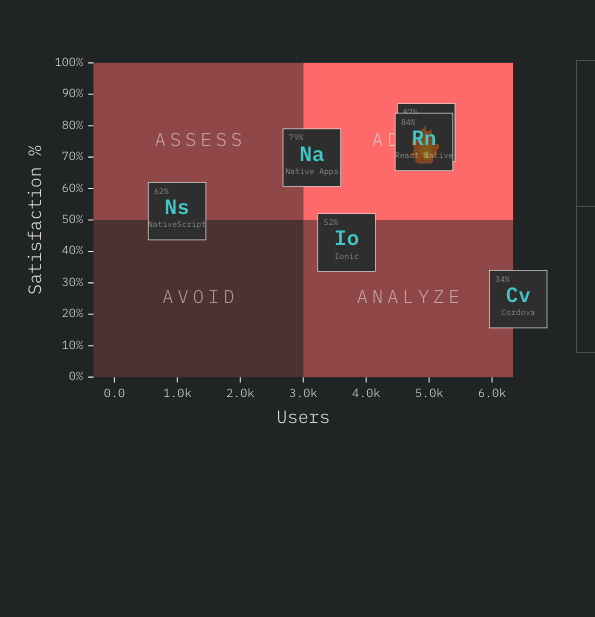
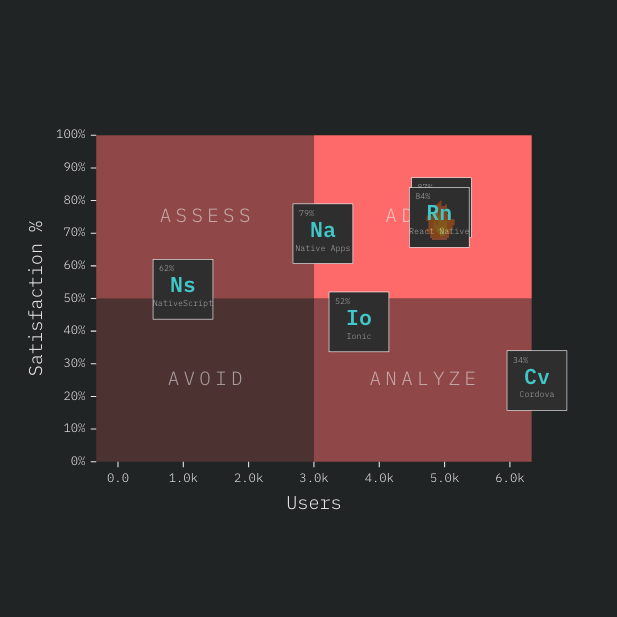
Update captures

diff --git a/surveys/2018/website/src/stylesheets/_capture.scss b/surveys/2018/website/src/stylesheets/_capture.scss
@@ -14,6 +14,9 @@
       height: 500px;
       justify-content: center;
     }
+    .Quadrants__Block__Content{
+        display: block;
+    }
 
     #connections {
         width: 1000px;
@@ -46,6 +49,11 @@
     #quadrants {
         height: 577px;
         width: 577px;
+        @include flex-center;
+        flex-direction: column;
+        .Quadrants__Wrapper{
+            width: 100%;
+        }
     }
     #tool-pairing {
         width: 880px;
